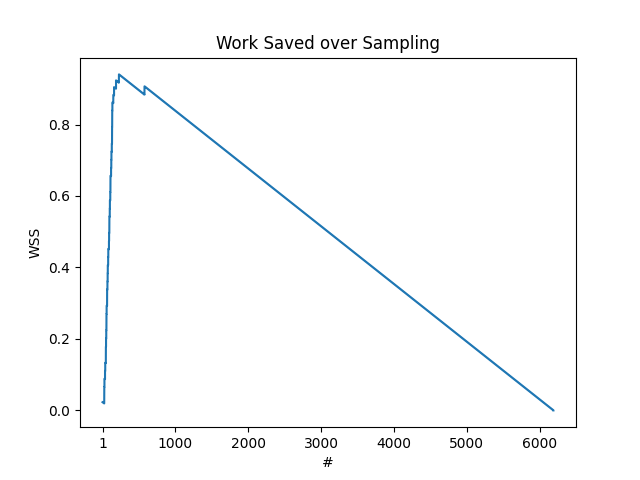
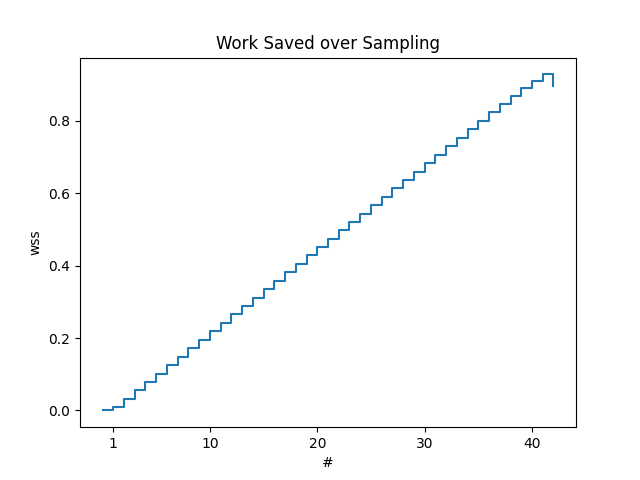
Fix name of WSS

diff --git a/asreviewcontrib/insights/recall.py b/asreviewcontrib/insights/recall.py
@@ -16,6 +16,7 @@ import argparse
 import logging
 
 import numpy as np
+import pandas as pd
 import matplotlib.pyplot as plt
 
 
@@ -31,22 +32,22 @@ def _fix_start_tick(ax):
 
 
 
-def plot_wss(ax, state_obj, prior="ignore"):
+def plot_xxx(ax, state_obj, priors=False):
 
-    """Plot the wss of state object(s).
+    """Plot the xxx of state object(s).
 
     state_obj:
         An ASReview state object.
     """
 
-    labels = state_obj.get_labels().to_list()
+    labels = state_obj.get_labels(priors=priors).to_list()
 
-    return _plot_wss(ax, labels, prior=prior)
+    return _plot_xxx(ax, labels)
 
 
-def _plot_wss(ax, labels, prior="ignore"):
+def _plot_xxx(ax, labels):
 
-    """Plot the wss of state object(s).
+    """Plot the xxx of state object(s).
 
     labels:
         An ASReview state object.
@@ -55,11 +56,11 @@ def _plot_wss(ax, labels, prior="ignore"):
     x = list(range(1, len(labels)+1))
     recall = np.cumsum(labels)/np.sum(labels)
     recall_random = np.linspace(1/max(x), 1, max(x))
-    wss = recall - recall_random
+    xxx = recall - recall_random
 
-    ax.step(x, wss, where='post')
+    ax.step(x, xxx, where='post')
     ax.set_title("Work Saved over Sampling")
-    ax.set(xlabel='#', ylabel='WSS')
+    ax.set(xlabel='#', ylabel='xxx')
     # ax.set_ylim([-0.05, 1.05])
     # ax.set_yticks([0, 0.2, 0.4, 0.6, 0.8, 1.0])
     ax.xaxis.get_major_locator().set_params(integer=True)
@@ -70,7 +71,64 @@ def _plot_wss(ax, labels, prior="ignore"):
     return ax
 
 
-def plot_recall(ax, state_obj, prior="ignore"):
+def plot_wss(ax, state_obj, priors=False):
+    """Plot the wss of state object(s).
+
+    state_obj:
+        An ASReview state object.
+    """
+
+    labels = state_obj.get_labels(priors=priors).to_list()
+
+    return _plot_wss(ax, labels)
+
+
+def _plot_wss(ax, labels):
+    """Plot the wss of state object(s).
+
+    labels:
+        An ASReview state object.
+    """
+
+    x = list(range(1, len(labels)+1))
+    # print(labels)
+    # recall = np.cumsum(labels)/np.sum(labels)
+    # recall_random = np.linspace(1/max(x), 1, max(x))
+    recall = np.cumsum(labels)
+    recall_random = np.round(np.linspace(0, np.sum(labels), len(x)))
+
+    # get the index of each unique recall value
+    recall_value, recall_index = np.unique(recall, return_index=True)
+
+    # print(recall)
+    # print(recall_random)
+    recall_random_value, recall_random_index = np.unique(recall_random, return_index=True)
+
+    if np.max(recall_index) == max(recall) - 1:
+        recall_index = np.append([np.nan], recall_index + 1)
+
+    print(recall_index)
+    print(recall_random_index)
+    print(recall_random_index - recall_index)
+
+    # aaa
+    # get the difference between recall_random and recall
+    wss = (recall_random_index - recall_index)/len(x)
+
+    ax.step(recall_value, wss, where='post')
+    ax.set_title("Work Saved over Sampling")
+    ax.set(xlabel='#', ylabel='wss')
+    # ax.set_ylim([-0.05, 1.05])
+    # ax.set_yticks([0, 0.2, 0.4, 0.6, 0.8, 1.0])
+    ax.xaxis.get_major_locator().set_params(integer=True)
+
+    # correct x axis if tick is at position 0
+    _fix_start_tick(ax)
+
+    return ax
+
+
+def plot_recall(ax, state_obj, priors=False):
 
     """Plot the recall of state object(s).
 
@@ -78,12 +136,12 @@ def plot_recall(ax, state_obj, prior="ignore"):
         An ASReview state object.
     """
 
-    labels = state_obj.get_labels().to_list()
+    labels = state_obj.get_labels(priors=priors).to_list()
 
-    return _plot_recall(ax, labels, prior=prior)
+    return _plot_recall(ax, labels)
 
 
-def _plot_recall(ax, labels, prior="ignore"):
+def _plot_recall(ax, labels):
 
     """Plot the recall of state object(s).
 
@@ -102,14 +160,14 @@ def _plot_recall(ax, labels, prior="ignore"):
     ax.xaxis.get_major_locator().set_params(integer=True)
 
     # add random line if required
-    _plot_random_recall(ax, labels, prior=prior)
+    _plot_random_recall(ax, labels)
 
     # correct x axis if tick is at position 0
     _fix_start_tick(ax)
 
     return ax
 
-def _plot_random_recall(ax, labels, prior="ignore"):
+def _plot_random_recall(ax, labels):
 
     """Plot the recall of state object(s).
 
@@ -126,22 +184,22 @@ def _plot_random_recall(ax, labels, prior="ignore"):
 
 
 
-def plot_recall_wss(ax, state_obj, prior="ignore"):
+def plot_recall_xxx(ax, state_obj, priors=False):
 
-    """Plot the wss versus the recall of state object(s).
+    """Plot the xxx versus the recall of state object(s).
 
     state_obj:
         An ASReview state object.
     """
 
-    labels = state_obj.get_labels().to_list()
+    labels = state_obj.get_labels(priors=priors).to_list()
 
-    return _plot_recall_wss(ax, labels, prior=prior)
+    return _plot_recall_xxx(ax, labels)
 
 
-def _plot_recall_wss(ax, labels, prior="ignore"):
+def _plot_recall_xxx(ax, labels):
 
-    """Plot the wss of state object(s).
+    """Plot the xxx of state object(s).
 
     labels:
         An ASReview state object.
@@ -150,11 +208,11 @@ def _plot_recall_wss(ax, labels, prior="ignore"):
     x = list(range(1, len(labels)+1))
     recall = np.cumsum(labels)/np.sum(labels)
     recall_random = np.linspace(1/max(x), 1, max(x))
-    wss = recall - recall_random
+    xxx = recall - recall_random
 
-    ax.step(recall, wss, where='post')
+    ax.step(recall, xxx, where='post')
     ax.set_title("Recall versus Work Saved over Sampling")
-    ax.set(xlabel='Recall', ylabel='WSS')
+    ax.set(xlabel='Recall', ylabel='xxx')
     ax.set_xlim([-0.05, 1.05])
     ax.set_xticks([0, 0.2, 0.4, 0.6, 0.8, 1.0])
     ax.set_ylim([-0.05, 1.05])

diff --git a/tests/test_plot.py b/tests/test_plot.py
@@ -6,8 +6,8 @@ import matplotlib.pyplot as plt
 
 from asreview import open_state
 
-from asreviewcontrib.insights import plot_recall, plot_wss, plot_recall_wss
-from asreviewcontrib.insights.recall import _plot_recall, _plot_wss, _plot_recall_wss
+from asreviewcontrib.insights import plot_recall, plot_wss, plot_xxx, plot_recall_xxx
+from asreviewcontrib.insights.recall import _plot_recall, _plot_wss, _plot_wss, _plot_recall_xxx
 
 TEST_ASREVIEW_FILES = Path("tests", "asreview_files")
 TEST_FIGURES = Path("figures")
@@ -53,19 +53,19 @@ def test_plot_wss():
         fig.savefig(Path(TEST_FIGURES, "tests_wss_sim_van_de_schoot_2017_1.png"))
 
 
-def test_plot_recall_wss_small_data():
+def test_plot_recall_xxx_small_data():
 
     fig, ax = plt.subplots()
-    _plot_recall_wss(ax, [1,1,1,0])
+    _plot_recall_xxx(ax, [1,1,1,0])
 
     fig.savefig(Path(TEST_FIGURES, "tests_recall_wss_small_dataset.png"))
 
 
-def test_plot_recall_wss():
+def test_plot_recall_xxx():
 
     with open_state(Path(TEST_ASREVIEW_FILES, "sim_van_de_schoot_2017_1.asreview")) as s:
 
         fig, ax = plt.subplots()
-        plot_recall_wss(ax, s)
+        plot_recall_xxx(ax, s)
 
         fig.savefig(Path(TEST_FIGURES, "tests_recall_wss_sim_van_de_schoot_2017_1.png"))

diff --git a/asreviewcontrib/insights/__init__.py b/asreviewcontrib/insights/__init__.py
@@ -14,11 +14,12 @@
 
 from asreviewcontrib.insights.recall import plot_recall
 from asreviewcontrib.insights.recall import plot_wss
-from asreviewcontrib.insights.recall import plot_recall_wss
+from asreviewcontrib.insights.recall import plot_xxx
+from asreviewcontrib.insights.recall import plot_recall_xxx
 # from asreviewcontrib.insights.entrypoint import PlotEntryPoint  # noqa
 
 from ._version import get_versions
 __version__ = get_versions()['version']
 del get_versions
 
-__all__ = ['plot_recall', 'plot_wss', 'plot_recall_wss']
+__all__ = ['plot_recall', 'plot_wss', 'plot_xxx', 'plot_recall_xxx']

diff --git a/README.md b/README.md
@@ -45,7 +45,7 @@ asreview plot recall YOUR_ASREVIEW_FILE.asreview
 
 The following plot is the result of simulating the [`van_de_schoot_2017`]() in
 the benchmark platform (command `asreview simulate
-benchmark:van_de_schoot_2017` -s sim_van_de_schoot_2017.asreview).
+benchmark:van_de_schoot_2017 -s sim_van_de_schoot_2017.asreview`).
 
 ![Recall plot of Van de Schoot 2017](figures/tests_recall_sim_van_de_schoot_2017_1.png)
 
